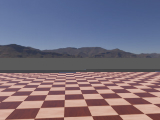
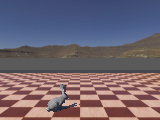
start position

diff --git a/controllers/my_controller_plus_mcp/my_controller_plus_mcp.py b/controllers/my_controller_plus_mcp/my_controller_plus_mcp.py
@@ -99,8 +99,8 @@ def set_initial_pose():
 
     motors["HeadYaw"].setPosition(0.0)
     motors["HeadPitch"].setPosition(0.0)
-    motors["LShoulderPitch"].setPosition(1.5)
-    motors["RShoulderPitch"].setPosition(1.5)
+    motors["LShoulderPitch"].setPosition(0.0)
+    motors["RShoulderPitch"].setPosition(0.0)
     motors["LShoulderRoll"].setPosition(0.0)
     motors["RShoulderRoll"].setPosition(0.0)
     motors["LHipYawPitch"].setPosition(0.0)
@@ -189,7 +189,7 @@ def process_commands():
         elif action == "set_arm_position":
             if motors_found:
                 arm = command.get('arm', 'left')
-                shoulder_pitch = command.get('shoulder_pitch', 1.5)
+                shoulder_pitch = command.get('shoulder_pitch', 0.0)
                 shoulder_roll = command.get('shoulder_roll', 0.0)
 
                 if arm == 'left':
@@ -243,8 +243,8 @@ def update_status():
     # Получаем текущие позиции моторов
     head_position = {"yaw": 0.0, "pitch": 0.0}
     arm_positions = {
-        "left_shoulder_pitch": 1.5,
-        "right_shoulder_pitch": 1.5,
+        "left_shoulder_pitch": 0.0,
+        "right_shoulder_pitch": 0.0,
         "left_shoulder_roll": 0.0,
         "right_shoulder_roll": 0.0
     }
